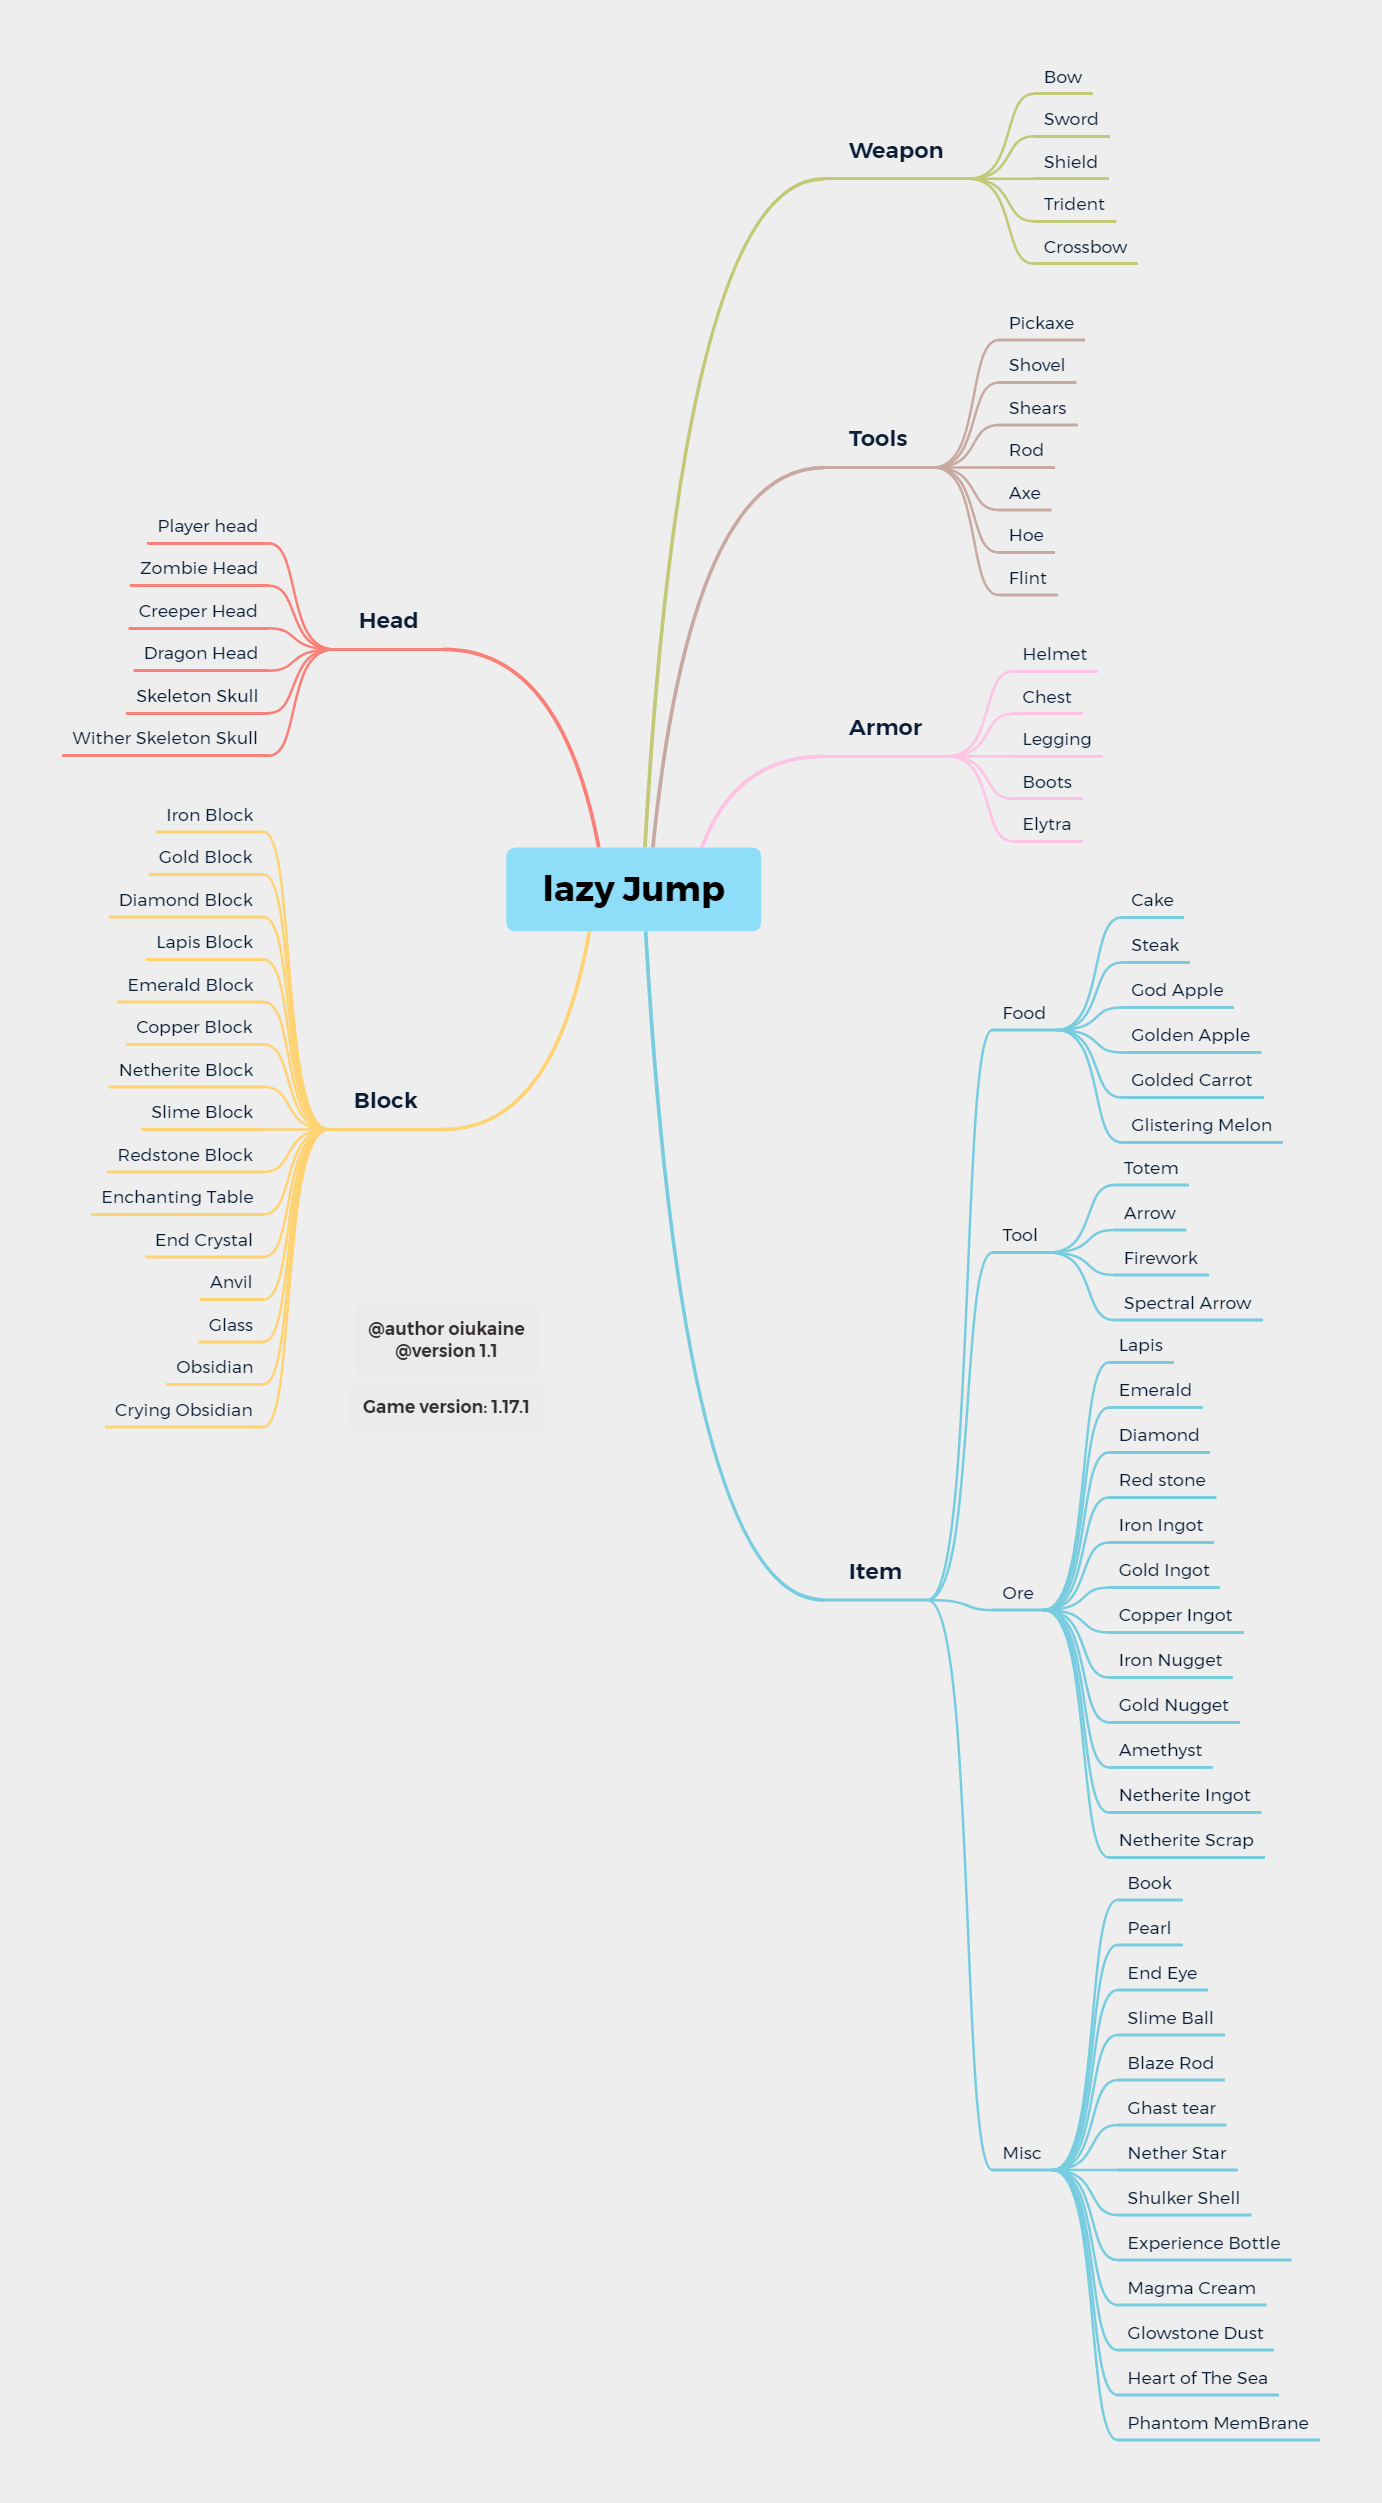
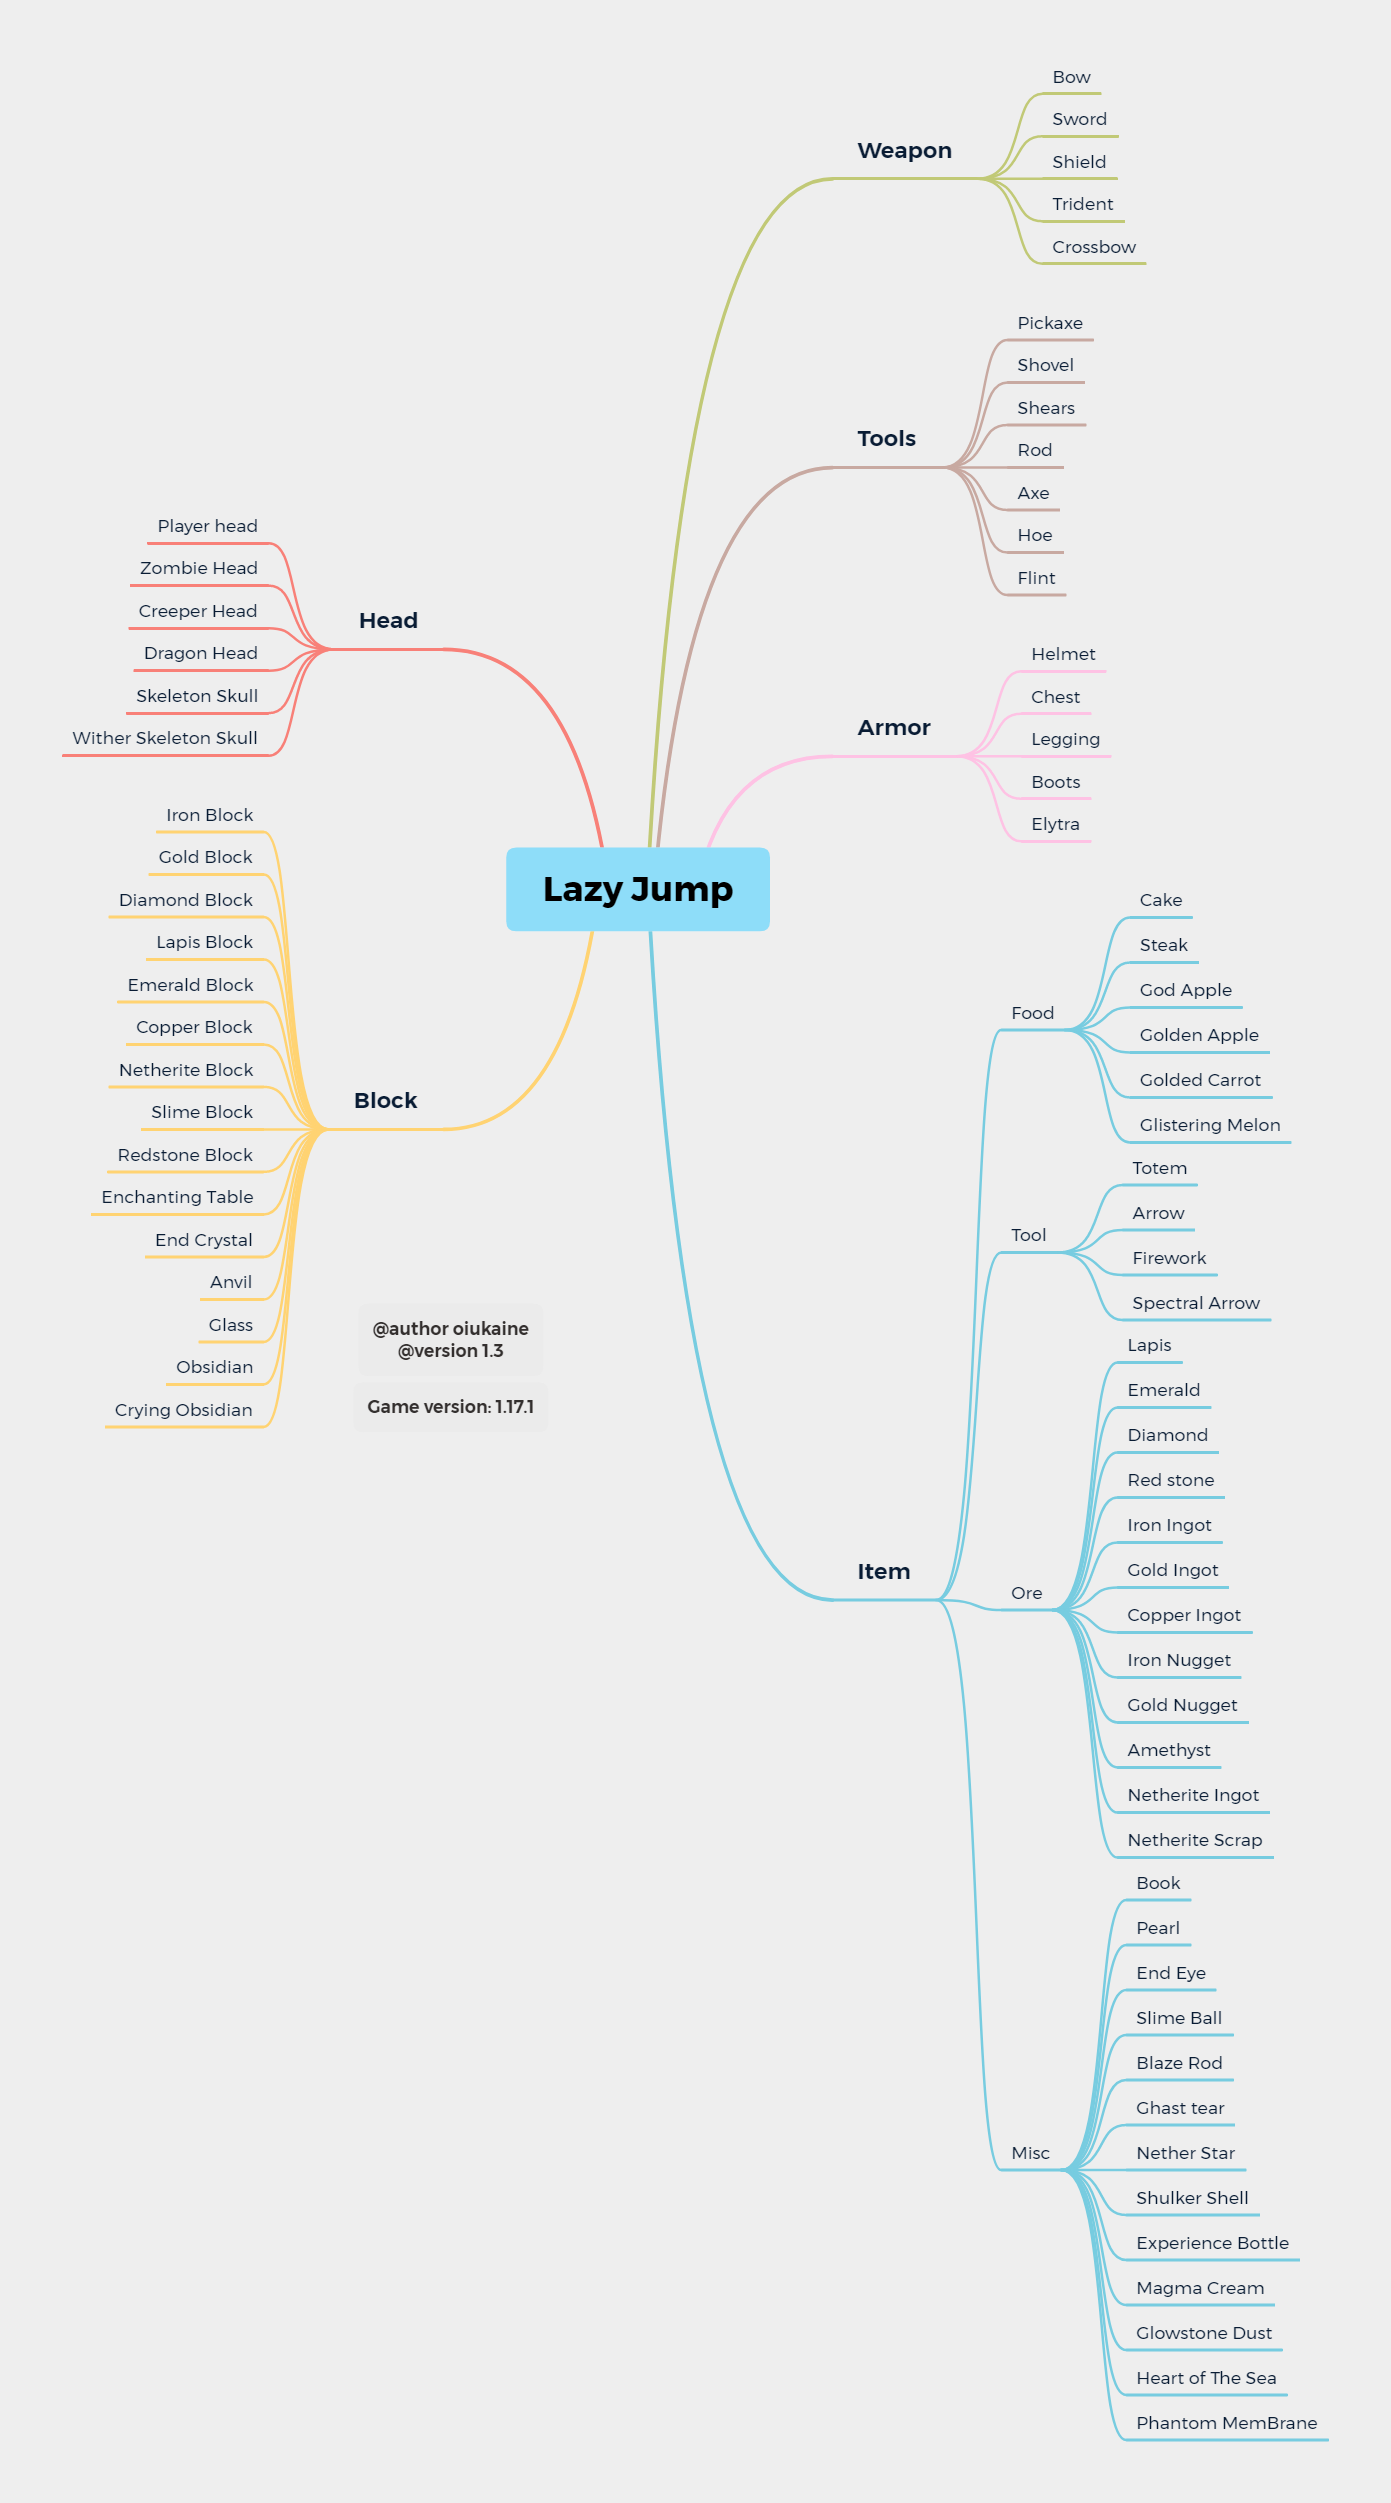
update version 1.3

diff --git a/README.md b/README.md
@@ -13,3 +13,8 @@ delete the string "@createTime: 22/9/2021" from pack.mcmeta
 23/9/2021   
 @version 1.2  
 update the pack.mcmeta and load.mcfunction 
+
+24/9/2021   
+@version 1.3  
+update pack.mcmeta and load.mcfunction  
+add unload.mcfunction
